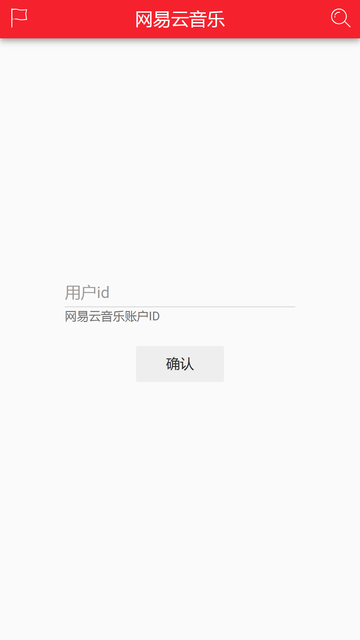
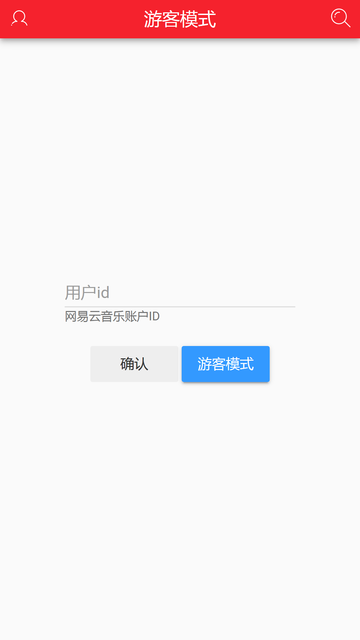
add search page and update readme info

diff --git a/src/pages/Full.vue b/src/pages/Full.vue
@@ -79,7 +79,7 @@ export default {
             return this.$store.getters.songInfo
         },
         cover() { // 专辑封面地址
-            return (this.info.al || this.song.album || {}).picUrl
+            return (this.info.al || this.info.album || {}).picUrl
         },
         bg() { // 全屏背景图样式
             return {
@@ -223,9 +223,9 @@ export default {
         }
     },
     created() {
+        this.initPage()
         if(this.info.id){ // 当前是否有歌曲在播放
             this.parseLyric()
-            this.initPage()
             this.$store.commit('changeBottom', false) // 全屏播放时隐藏底部播放器
             this.$store.commit('changeBg', 'transparent') // 全屏播放时页面标题背景透明
             this.totalTime = this.formatTime(this.$player.duration)
@@ -249,6 +249,7 @@ export default {
         this.$nextTick(() => {
             this.fullH.height = this.setRem(this.$parent.$refs.main.clientHeight) // 由于多了一层未知高度的滚动容器的包裹，100%不起作用，需要手动获取高度
             // print(this.$parent.$refs.main)
+            this.$store.commit('changeClear', true)
         })
         this.barWidth = this.$refs.bar.clientWidth
         this.barLeft = this.$refs.bar.offsetLeft

diff --git a/src/pages/Search.vue b/src/pages/Search.vue
@@ -1,11 +1,11 @@
 <template>
     <section class="search">
-        <div class="option">
+        <!-- <div class="option">
             <mu-radio class="option-item" v-model="type" :value="1" label="单曲"></mu-radio>
             <mu-radio class="option-item" v-model="type" :value="10" label="专辑"></mu-radio>
             <mu-radio class="option-item" v-model="type" :value="100" label="歌手"></mu-radio>
             <mu-radio class="option-item" v-model="type" :value="1000" label="歌单"></mu-radio>
-        </div>
+        </div> -->
         <div class="sear">
             <mu-text-field class="saerch-input" v-model="content" placeholder="请输入搜索内容……" full-width @keyup.enter="getResult"></mu-text-field>
         </div>
@@ -18,6 +18,9 @@
 </template>
 
 <script>
+/**
+ * 搜索页面，暂且只支持单曲类型。
+ */
 import SongList from '../components/SongList'
 import Loading from '../components/Loading'
 
@@ -61,6 +64,9 @@ export default {
         }
     },
     created() {
+        this.initPage()
+    },
+    activated() {
         this.initPage()
     }
 }

diff --git a/src/components/Banner.vue b/src/components/Banner.vue
@@ -1,7 +1,7 @@
 <template>
     <section class="banner">
         <div class="banner-bg"></div>
-        <mu-carousel class="banner-container" hide-indicators>
+        <mu-carousel class="banner-container" hide-controls>
             <mu-carousel-item v-for="(item, i) in info" :key="i">
                 <img class="banner-img" v-lazy="item.imageUrl" :key="item.imageUrl" alt="banner">
                 <span class="banner-type" :style="{backgroundColor: item.titleColor}">{{item.typeTitle}}</span>

diff --git a/src/util/tap.js b/src/util/tap.js
@@ -23,6 +23,13 @@ export function initTap(eventType = 'tap') {
             tapEvent.changedTouches = e.changedTouches
             // print(tapEvent)
             e.target.dispatchEvent(tapEvent) // 向target派发事件
+            setTimeout(() => {
+                e.target.dispatchEvent(new MouseEvent('click', {
+                    button: 0,
+                    bubbles: true,
+                    cancelable: false
+                }))
+            }, 20)
         }
     }, true)
 }

diff --git a/src/index.js b/src/index.js
@@ -10,7 +10,7 @@ import {Tabs, Carousel, TextField, Button, Radio} from 'muse-ui'
 import Icon from './components/Icon'
 import {defaultPic} from './util/pic'
 
-const url = 'http://localhost:3000' // 使用时用实际api接口地址进行替换
+const url = 'http://tx.xiexuefeng.cc:3000/music' //'http://localhost:3000' // 使用时用实际api接口地址进行替换
 const dpr = window.devicePixelRatio || 1
 
 Vue.prototype.$axios = axios

diff --git a/src/App.vue b/src/App.vue
@@ -154,7 +154,7 @@ export default {
 }
 </script>
 
-<style>
+<style lang="scss">
     #app{
         display: flex;
         flex-flow: column nowrap;
@@ -166,5 +166,12 @@ export default {
     }
     #player{
         display: none;
+    }
+    .mu-carousel-indicator-icon{
+        width: rem(8) !important;
+        height: rem(8) !important;
+    }
+    .mu-carousel-indicator-button{
+        width: rem(12) !important;
     }
 </style>

diff --git a/readme.md b/readme.md
@@ -17,6 +17,8 @@
 
 线上地址：[http://xiexuefeng.cc/app/music](http://xiexuefeng.cc/app/music)
 
+![code](files/code.png)
+
 ## 使用须知
 
 由于项目使用的 `API` 接口完全是基于 `NeteaseCloudMusicApi` 项目，因此需要事先启动该项目作为接口服务器（无论是本地还是云上）；启动好后修改 `src/index.js` 文件中的 `API` 接口设置为实际使用的接口地址即可。
@@ -56,6 +58,10 @@ npm run build
 为啥说是『伪』登录，因为这里只是获取用户的 `uid`，此后获取到的数据都是一些**公开只读**的数据，而涉及到真正改变用户信息的操作（如收藏，点赞，评论等等）都不能使用；其实 `NeteaseCloudMusicApi` 项目提供了与网易云音乐 `app` 一样的手机或邮箱登录的接口，但是由于我的目的不是制作替代品，只是练习项目和试验一些功能，利用 `uid` 获取一些『只读』数据已经足够了（况且还涉及到用户密码和安全问题）。
 
 那么如何查询自己的网易云音乐账户 `ID` 号呢？那就需要在网易云音乐 `PC` 网页端查看自己的个人主页，诸如`https://music.163.com/#/user/home?id=xxxxxxx`，`id` 后那串数字就是账户 `ID`。
+
+#### 关于游客模式
+
+游客模式实际上就是没有获取用户`uid`而已，因此有关『登录』用户的信息就无法查看（比如侧边栏信息和首页的用户歌单等），其他的数据基本上没有影响。
 
 ### 首页
 
@@ -125,6 +131,12 @@ npm run build
 
 ![user](files/user.png)
 
+### 搜索页
+
+点击顶部菜单中的搜索图标即可进入搜索页面，在输入框中输入关键字，回车后即可获取搜索结果；目前只支持单曲类型。
+
+![search](files/search.png)
+
 ## 个人笔记
 
 在写这个项目的时候当然也遇到许多问题，基本上遇到的问题都会记录下来，其中有些专门进行了整理放在博客上：
@@ -132,3 +144,4 @@ npm run build
 1. [关于rem布局 | snowdream](https://note.xiexuefeng.cc/post/rem-layout/)
 2. [如何实现歌词同步显示 | snowdream](https://note.xiexuefeng.cc/post/sync-lyric/)
 3. [音频播放器的制作与WebAudio API | snowdream](https://note.xiexuefeng.cc/post/music-player-and-webaudio/)
+4. [Event对象与自定义事件 | snowdream](https://note.xiexuefeng.cc/post/js-event-and-customed-js-event/)
